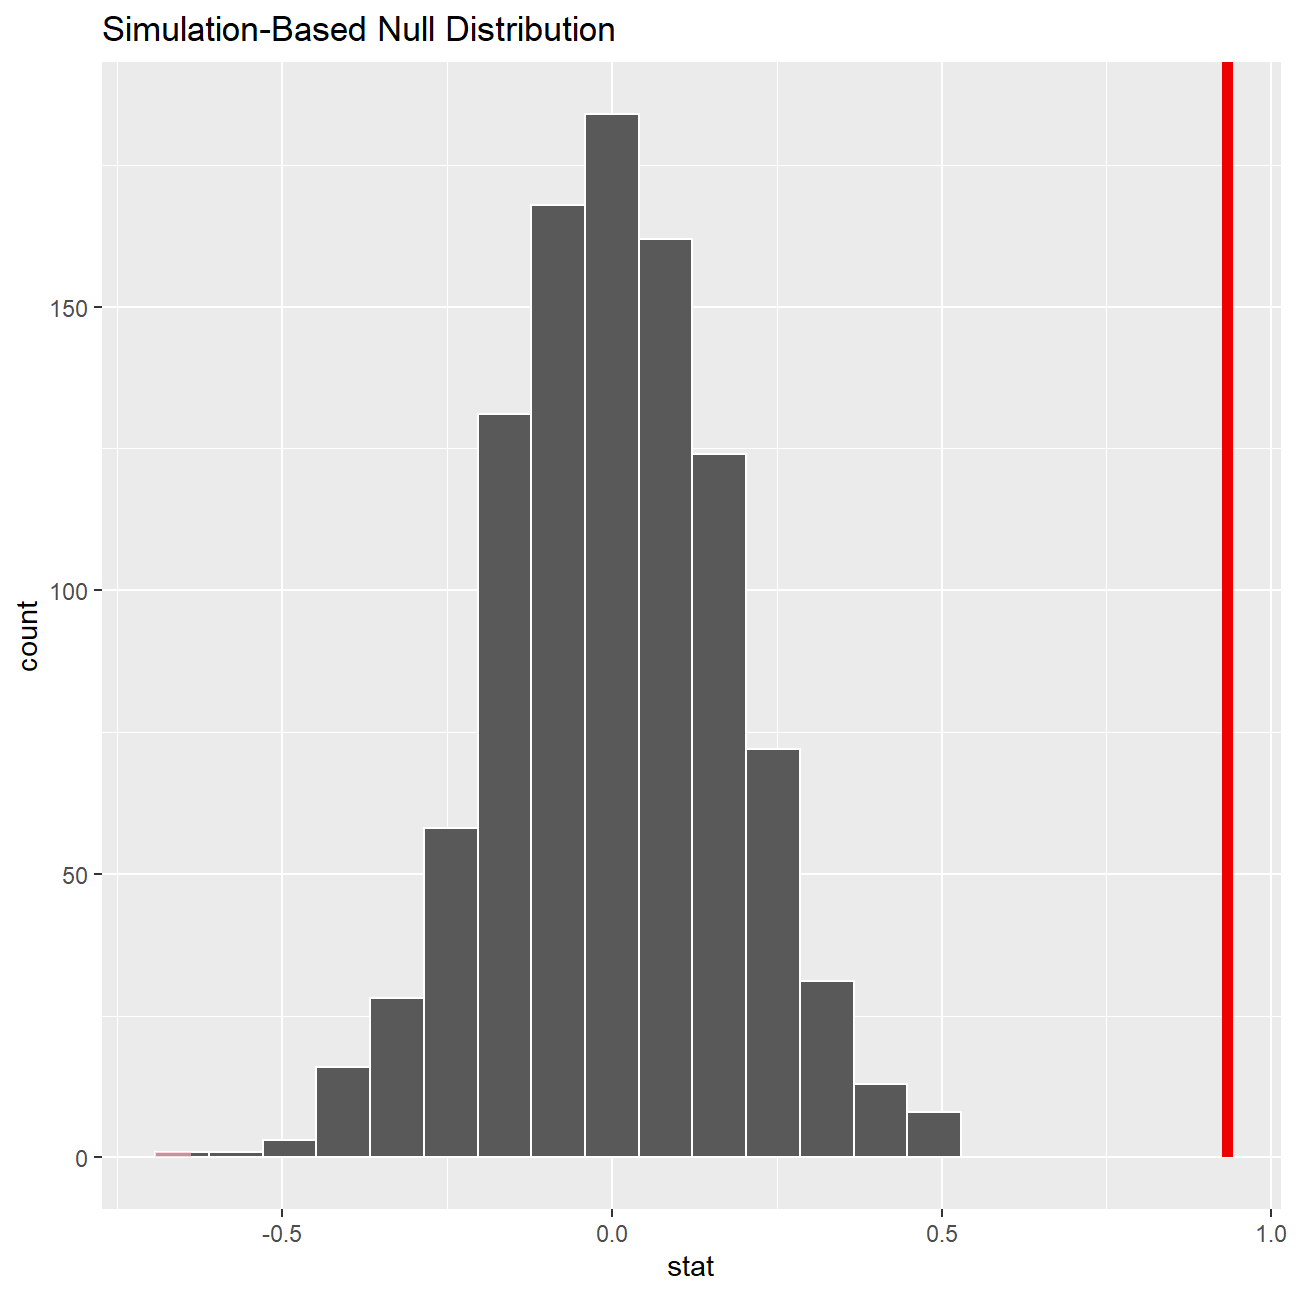
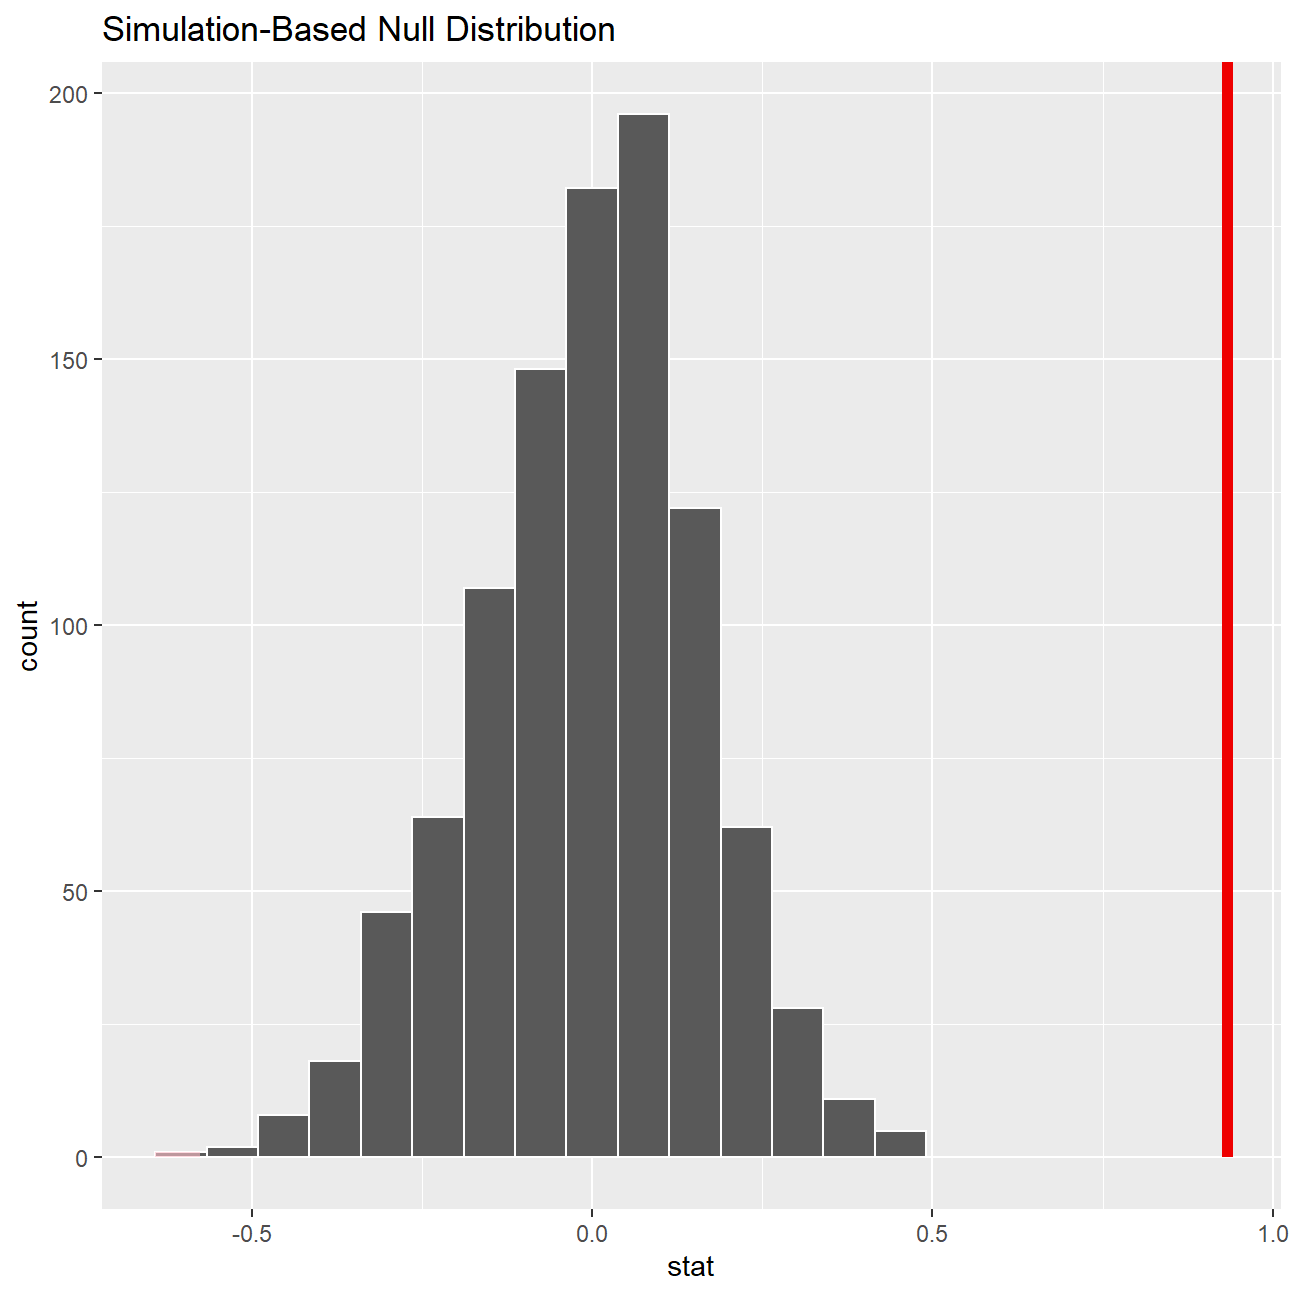
All

diff --git a/content/projects/project4/index.html b/content/projects/project4/index.html
@@ -1,0 +1,132 @@
+---
+title: "California Contributors US 2016 Elections"
+date: '2020-09-27'
+description: ''
+draft: no
+keywords: ''
+slug: "pj5"
+categories:
+- ''
+- ''
+---
+
+
+
+<pre class="r"><code>CA_2016 &lt;- vroom::vroom(here::here(&quot;data&quot;, &quot;CA_contributors_2016.csv&quot;)) %&gt;%
+  clean_names()</code></pre>
+<pre class="r"><code>#Highest individual contributions
+CA_2016 %&gt;%
+  arrange(desc(contb_receipt_amt))</code></pre>
+<pre><code>## # A tibble: 1,292,843 x 4
+##    cand_nm                   contb_receipt_amt   zip contb_date
+##    &lt;chr&gt;                                 &lt;dbl&gt; &lt;dbl&gt; &lt;date&gt;    
+##  1 Walker, Scott                         10800 90680 2015-07-07
+##  2 Walker, Scott                         10800 92677 2015-07-06
+##  3 Cruz, Rafael Edward &#39;Ted&#39;             10800 91604 2015-12-21
+##  4 Cruz, Rafael Edward &#39;Ted&#39;             10800 93401 2015-06-12
+##  5 Cruz, Rafael Edward &#39;Ted&#39;             10800 90024 2015-06-24
+##  6 Cruz, Rafael Edward &#39;Ted&#39;             10800 90034 2015-12-08
+##  7 Cruz, Rafael Edward &#39;Ted&#39;             10800 93013 2015-12-31
+##  8 Cruz, Rafael Edward &#39;Ted&#39;             10800 90211 2015-12-21
+##  9 Cruz, Rafael Edward &#39;Ted&#39;             10800 90036 2015-12-17
+## 10 Cruz, Rafael Edward &#39;Ted&#39;             10800 92091 2015-12-14
+## # ... with 1,292,833 more rows</code></pre>
+<p>#Loading Zip files</p>
+<pre class="r"><code>Zip &lt;- vroom::vroom(here::here(&quot;data&quot;, &quot;zip_code_database.csv&quot;))
+Zip</code></pre>
+<pre><code>## # A tibble: 42,522 x 16
+##    zip   type  primary_city acceptable_citi~ unacceptable_ci~ state county
+##    &lt;chr&gt; &lt;chr&gt; &lt;chr&gt;        &lt;chr&gt;            &lt;chr&gt;            &lt;chr&gt; &lt;chr&gt; 
+##  1 00501 UNIQ~ Holtsville   &lt;NA&gt;             I R S Service C~ NY    Suffo~
+##  2 00544 UNIQ~ Holtsville   &lt;NA&gt;             Irs Service Cen~ NY    Suffo~
+##  3 00601 STAN~ Adjuntas     &lt;NA&gt;             Colinas Del Gig~ PR    Adjun~
+##  4 00602 STAN~ Aguada       &lt;NA&gt;             Alts De Aguada,~ PR    &lt;NA&gt;  
+##  5 00603 STAN~ Aguadilla    Ramey            Bda Caban, Bda ~ PR    Aguad~
+##  6 00604 PO B~ Aguadilla    Ramey            &lt;NA&gt;             PR    &lt;NA&gt;  
+##  7 00605 PO B~ Aguadilla    &lt;NA&gt;             &lt;NA&gt;             PR    &lt;NA&gt;  
+##  8 00606 STAN~ Maricao      &lt;NA&gt;             Urb San Juan Ba~ PR    Maric~
+##  9 00610 STAN~ Anasco       &lt;NA&gt;             Brisas De Anasc~ PR    &lt;NA&gt;  
+## 10 00611 PO B~ Angeles      &lt;NA&gt;             &lt;NA&gt;             PR    &lt;NA&gt;  
+## # ... with 42,512 more rows, and 9 more variables: timezone &lt;chr&gt;,
+## #   area_codes &lt;dbl&gt;, latitude &lt;dbl&gt;, longitude &lt;dbl&gt;, world_region &lt;chr&gt;,
+## #   country &lt;chr&gt;, decommissioned &lt;dbl&gt;, estimated_population &lt;dbl&gt;,
+## #   notes &lt;chr&gt;</code></pre>
+<pre class="r"><code>my_zip &lt;- Zip[,c(1,3)]
+
+my_CA_2016 &lt;- merge(CA_2016, my_zip, by = &quot;zip&quot;, all.x=TRUE)</code></pre>
+<pre class="r"><code>###1 Clinton
+Clinton &lt;- my_CA_2016 %&gt;% filter(cand_nm == &quot;Clinton, Hillary Rodham&quot;) %&gt;% group_by(primary_city) %&gt;% summarise(tot_cont = sum(contb_receipt_amt)) %&gt;% arrange(desc(tot_cont))
+
+p_clinton &lt;- ggplot(Clinton[1:10,], aes(x = tot_cont, y = reorder(primary_city, tot_cont))) + geom_bar(stat=&quot;identity&quot;, fill=&quot;blue&quot;) + scale_x_continuous(labels=scales::dollar_format()) + labs(x=&quot;&quot;, y=&quot;&quot;) + theme_bw() + theme(plot.title = element_text(hjust = 0.5)) + facet_wrap(~&quot;Clinton, Hillary Rodham&quot;)+ theme(strip.text =element_text(size=14))
+ 
+p_clinton</code></pre>
+<p><img src="index_files/figure-html/unnamed-chunk-3-1.png" width="648" style="display: block; margin: auto;" /></p>
+<pre class="r"><code>###2 Sanders
+Sanders &lt;- my_CA_2016 %&gt;% filter(cand_nm == &quot;Sanders, Bernard&quot;) %&gt;% group_by(primary_city) %&gt;% summarise(tot_cont = sum(contb_receipt_amt)) %&gt;% arrange(desc(tot_cont))
+
+p_sanders &lt;- ggplot(Sanders[1:10,], aes(x = tot_cont, y = reorder(primary_city, tot_cont))) + geom_bar(stat=&quot;identity&quot;, fill=&quot;blue&quot;) + scale_x_continuous(labels=scales::dollar_format()) + labs(x = &quot;&quot;, y =  &quot;&quot;) + theme_bw() + theme(plot.title = element_text(hjust = 0.5)) + facet_wrap(~&quot;Sanders, Bernard&quot;)+ theme(strip.text =element_text(size=14))
+
+p_sanders</code></pre>
+<p><img src="index_files/figure-html/unnamed-chunk-4-1.png" width="648" style="display: block; margin: auto;" /></p>
+<pre class="r"><code>###3 Trump
+Trump &lt;- my_CA_2016 %&gt;% filter(cand_nm == &quot;Trump, Donald J.&quot;) %&gt;% group_by(primary_city) %&gt;% summarise(tot_cont = sum(contb_receipt_amt)) %&gt;% arrange(desc(tot_cont))
+
+p_trump &lt;- ggplot(Trump[1:10,], aes(x = tot_cont, y = reorder(primary_city, tot_cont))) + geom_bar(stat=&quot;identity&quot;, fill=&quot;red&quot;) + scale_x_continuous(labels=scales::dollar_format()) + labs(x=&quot;&quot;, y=&quot;&quot;) + theme_bw() + theme(plot.title = element_text(hjust = 0.5)) + facet_wrap(~&quot;Trump, Donald J.&quot;)+ theme(strip.text =element_text(size=14))
+
+p_trump</code></pre>
+<p><img src="index_files/figure-html/unnamed-chunk-5-1.png" width="648" style="display: block; margin: auto;" /></p>
+<pre class="r"><code>###4 Cruz
+Cruz &lt;- my_CA_2016 %&gt;% filter(cand_nm == &quot;Cruz, Rafael Edward &#39;Ted&#39;&quot;) %&gt;% group_by(primary_city) %&gt;% summarise(tot_cont = sum(contb_receipt_amt)) %&gt;% arrange(desc(tot_cont))
+
+p_cruz &lt;- ggplot(Cruz[1:10,], aes(x = tot_cont, y = reorder(primary_city, tot_cont))) + geom_bar(stat=&quot;identity&quot;, fill=&quot;red&quot;) + scale_x_continuous(labels=scales::dollar_format()) + labs(x=&quot;&quot;, y=&quot;&quot;) + theme_bw() + theme(plot.title = element_text(hjust = 0.5)) + facet_wrap(~&quot;Cruz, Rafael Edward &#39;Ted&#39;&quot;)+ theme(strip.text =element_text(size=14))
+
+p_cruz</code></pre>
+<p><img src="index_files/figure-html/unnamed-chunk-6-1.png" width="648" style="display: block; margin: auto;" /></p>
+<pre class="r"><code>###5 Rubio
+Rubio &lt;- my_CA_2016 %&gt;% filter(cand_nm == &quot;Rubio, Marco&quot;) %&gt;% group_by(primary_city) %&gt;% summarise(tot_cont = sum(contb_receipt_amt)) %&gt;% arrange(desc(tot_cont))
+
+p_rubio &lt;- ggplot(Clinton[1:10,], aes(x = tot_cont, y = reorder(primary_city, tot_cont))) + geom_bar(stat=&quot;identity&quot;, fill=&quot;red&quot;) + scale_x_continuous(labels=scales::dollar_format()) + labs(x=&quot;&quot;, y=&quot;&quot;) + theme_bw() + theme(plot.title = element_text(hjust = 0.5)) + facet_wrap(~&quot;Rubio, Marco&quot;)+ theme(strip.text =element_text(size=14))
+
+p_rubio</code></pre>
+<p><img src="index_files/figure-html/unnamed-chunk-7-1.png" width="648" style="display: block; margin: auto;" /></p>
+<pre class="r"><code>###6 Bush
+Bush &lt;- my_CA_2016 %&gt;% filter(cand_nm == &quot;Bush, Jeb&quot;) %&gt;% group_by(primary_city) %&gt;% summarise(tot_cont = sum(contb_receipt_amt)) %&gt;% arrange(desc(tot_cont))
+
+p_bush &lt;- ggplot(Clinton[1:10,], aes(x = tot_cont, y = reorder(primary_city, tot_cont))) + geom_bar(stat=&quot;identity&quot;, fill=&quot;red&quot;) + scale_x_continuous(labels=scales::dollar_format()) + labs(x=&quot;&quot;, y=&quot;&quot;) + theme_bw() + theme(plot.title = element_text(hjust = 0.5)) + facet_wrap(~&quot;Bush, Jeb&quot;) + theme(strip.text =element_text(size=14))
+
+p_bush</code></pre>
+<p><img src="index_files/figure-html/unnamed-chunk-8-1.png" width="648" style="display: block; margin: auto;" /></p>
+<pre class="r"><code>###7 Carson
+Carson &lt;- my_CA_2016 %&gt;% filter(cand_nm == &quot;Carson, Benjamin S.&quot;) %&gt;% group_by(primary_city) %&gt;% summarise(tot_cont = sum(contb_receipt_amt)) %&gt;% arrange(desc(tot_cont))
+
+p_carson &lt;- ggplot(Clinton[1:10,], aes(x = tot_cont, y = reorder(primary_city, tot_cont))) + geom_bar(stat=&quot;identity&quot;, fill=&quot;red&quot;) + scale_x_continuous(labels=scales::dollar_format()) + labs(x=&quot;&quot;, y=&quot;&quot;) + theme_bw() + theme(plot.title = element_text(hjust = 0.5)) + facet_wrap(~&quot;Carson, Benjamin S.&quot;)+ theme(strip.text =element_text(size=14))
+
+p_carson</code></pre>
+<p><img src="index_files/figure-html/unnamed-chunk-9-1.png" width="648" style="display: block; margin: auto;" /></p>
+<pre class="r"><code>###8 Kasich
+Kasich &lt;- my_CA_2016 %&gt;% filter(cand_nm == &quot;Kasich, John R.&quot;) %&gt;% group_by(primary_city) %&gt;% summarise(tot_cont = sum(contb_receipt_amt)) %&gt;% arrange(desc(tot_cont))
+
+p_kasich &lt;- ggplot(Kasich[1:10,], aes(x = tot_cont, y = reorder(primary_city, tot_cont))) + geom_bar(stat=&quot;identity&quot;, fill=&quot;red&quot;) + scale_x_continuous(labels=scales::dollar_format()) + labs(x=&quot;&quot;, y=&quot;&quot;) + theme_bw() + theme(plot.title = element_text(hjust = 0.5)) + facet_wrap(~&quot;Kasich, John R.&quot;)+ theme(strip.text =element_text(size=14))
+
+p_kasich</code></pre>
+<p><img src="index_files/figure-html/unnamed-chunk-10-1.png" width="648" style="display: block; margin: auto;" /></p>
+<pre class="r"><code>###9 Fiorina
+Fiorina &lt;- my_CA_2016 %&gt;% filter(cand_nm == &quot;Fiorina, Carly&quot;) %&gt;% group_by(primary_city) %&gt;% summarise(tot_cont = sum(contb_receipt_amt)) %&gt;% arrange(desc(tot_cont))
+
+p_fiorina &lt;- ggplot(Clinton[1:10,], aes(x = tot_cont, y = reorder(primary_city, tot_cont))) + geom_bar(stat=&quot;identity&quot;, fill= &quot;red&quot;) + scale_x_continuous(labels=scales::dollar_format()) + labs(x=&quot;&quot;, y=&quot;&quot;) + theme_bw() + theme(plot.title = element_text(hjust = 0.5)) + facet_wrap(~&quot;Fiorina, Carly&quot;)+ theme(strip.text =element_text(size=14))
+
+p_fiorina</code></pre>
+<p><img src="index_files/figure-html/unnamed-chunk-11-1.png" width="648" style="display: block; margin: auto;" /></p>
+<pre class="r"><code>###10 Paul
+Paul &lt;- my_CA_2016 %&gt;% filter(cand_nm == &quot;Paul, Rand&quot;) %&gt;% group_by(primary_city) %&gt;% summarise(tot_cont = sum(contb_receipt_amt)) %&gt;% arrange(desc(tot_cont))
+
+p_paul &lt;- ggplot(Paul[1:10,], aes(x = tot_cont, y = reorder(primary_city, tot_cont))) + geom_bar(stat=&quot;identity&quot;, fill=&quot;red&quot;) + scale_x_continuous(labels=scales::dollar_format()) + labs(x=&quot;&quot;, y=&quot;&quot;) + theme_bw() + theme(plot.title = element_text(hjust = 0.5)) + facet_wrap(~&quot;Paul, Rand&quot;) + theme(strip.text =element_text(size=14))
+
+p_paul</code></pre>
+<p><img src="index_files/figure-html/unnamed-chunk-12-1.png" width="648" style="display: block; margin: auto;" /></p>
+<pre class="r"><code>## Placing plots together
+
+p_final &lt;- (p_clinton | p_sanders | p_trump | p_cruz | p_rubio) / (p_bush | p_carson | p_kasich | p_fiorina | p_paul) + plot_annotation(title = &quot;Where did candidates raise most money?&quot;, theme=theme(plot.title = element_text(size = 20, face=&quot;bold&quot;))) + plot_annotation(caption = &quot;Amount raised&quot;, theme=theme(plot.caption = element_text(size = 16, face=&quot;bold&quot;, hjust = 0.5))) + facet_wrap(~&quot;Clinton, Hillary Rodham&quot;)+ theme(strip.text =element_text(size=16))
+
+p_final</code></pre>
+<p><img src="index_files/figure-html/unnamed-chunk-13-1.png" width="648" style="display: block; margin: auto;" /></p>

diff --git a/content/projects/project3/index.html b/content/projects/project3/index.html
@@ -3,7 +3,6 @@ title: "Analysis of movies - IMDB dataset"
 date: '2020-10-14'
 description: ''
 draft: no
-image: IMDB.jpg
 keywords: ''
 slug: "pj5"
 categories:
@@ -354,16 +353,16 @@ null_dist</code></pre>
 <pre><code>## # A tibble: 1,000 x 2
 ##    replicate    stat
 ##        &lt;int&gt;   &lt;dbl&gt;
-##  1         1 -0.155 
-##  2         2 -0.246 
-##  3         3 -0.197 
-##  4         4  0.281 
-##  5         5  0.107 
-##  6         6 -0.155 
-##  7         7  0.0681
-##  8         8 -0.140 
-##  9         9  0.0265
-## 10        10 -0.166 
+##  1         1  0.216 
+##  2         2  0.125 
+##  3         3 -0.0956
+##  4         4  0.284 
+##  5         5  0.198 
+##  6         6  0.0447
+##  7         7 -0.452 
+##  8         8  0.0759
+##  9         9  0.0655
+## 10        10  0.0135
 ## # ... with 990 more rows</code></pre>
 <pre class="r"><code>ggplot(data = null_dist, aes(x = stat)) +
   geom_histogram()</code></pre>
